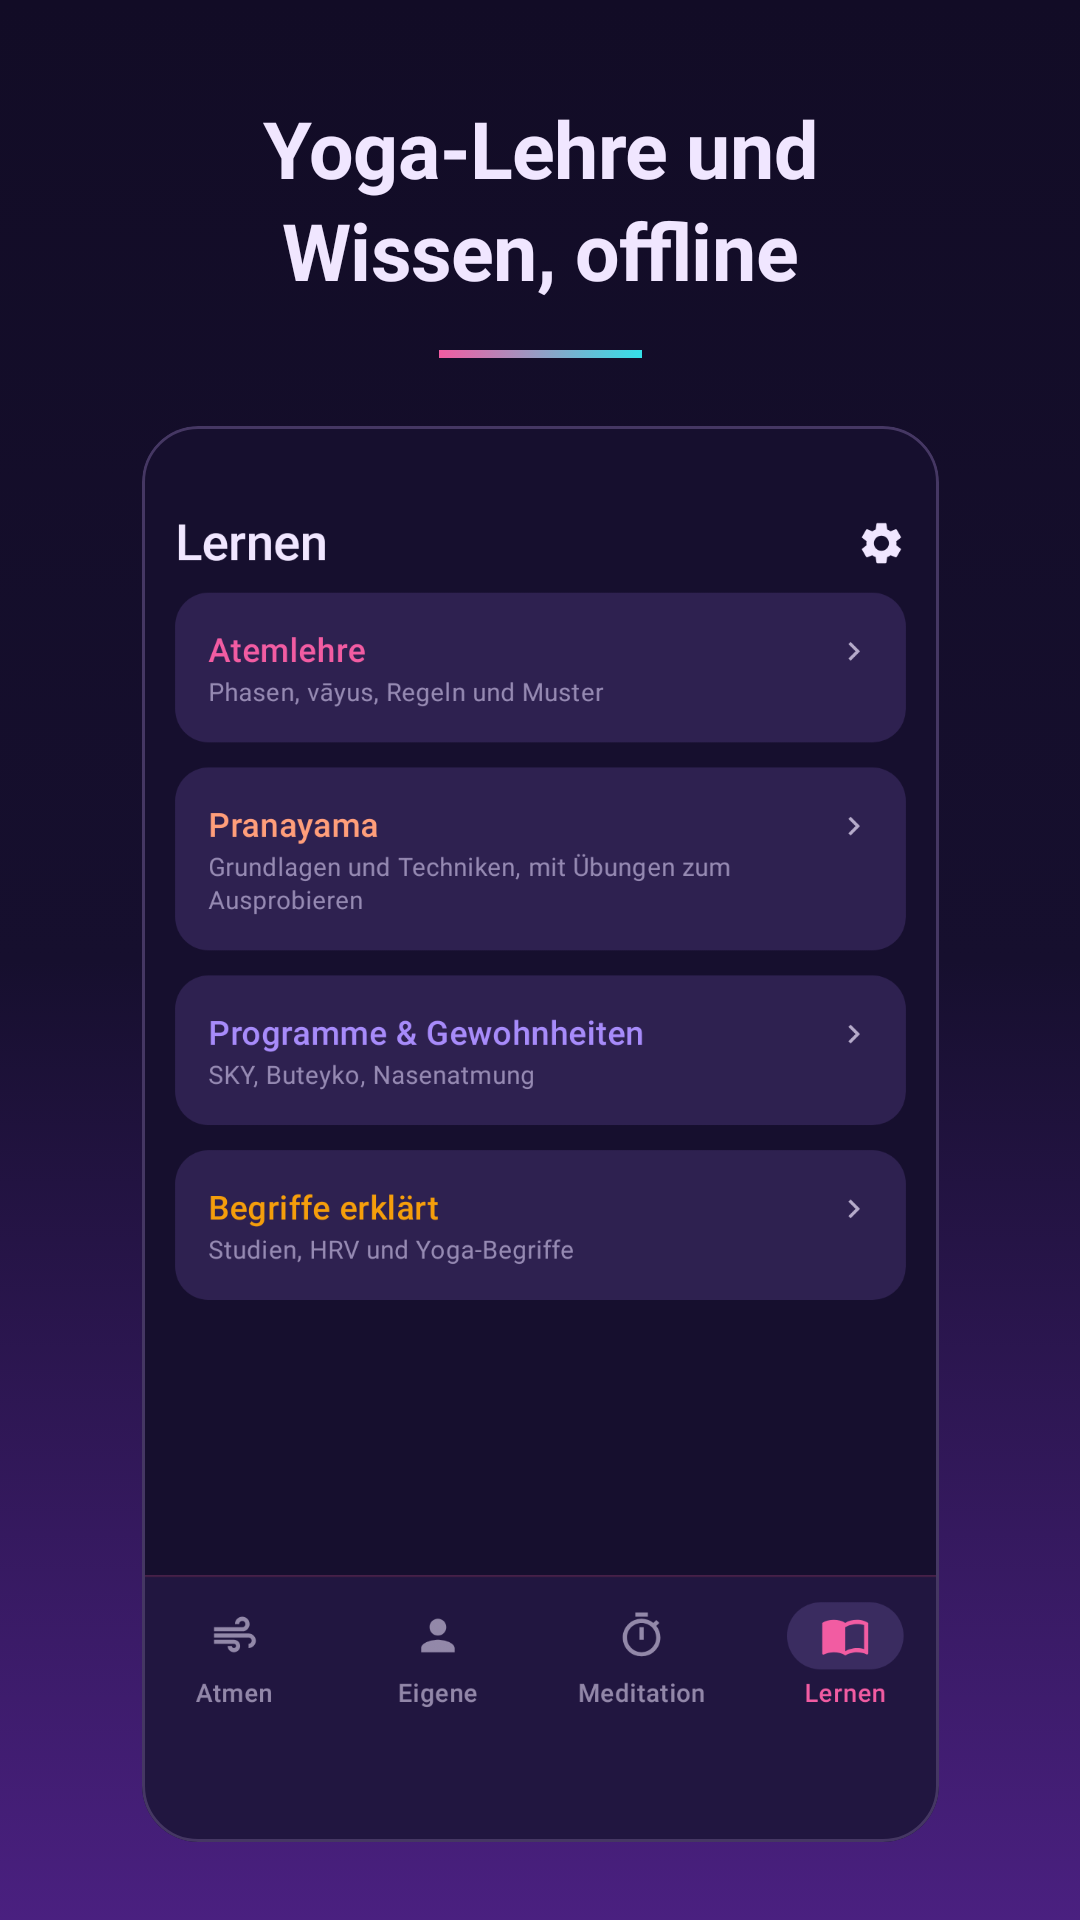
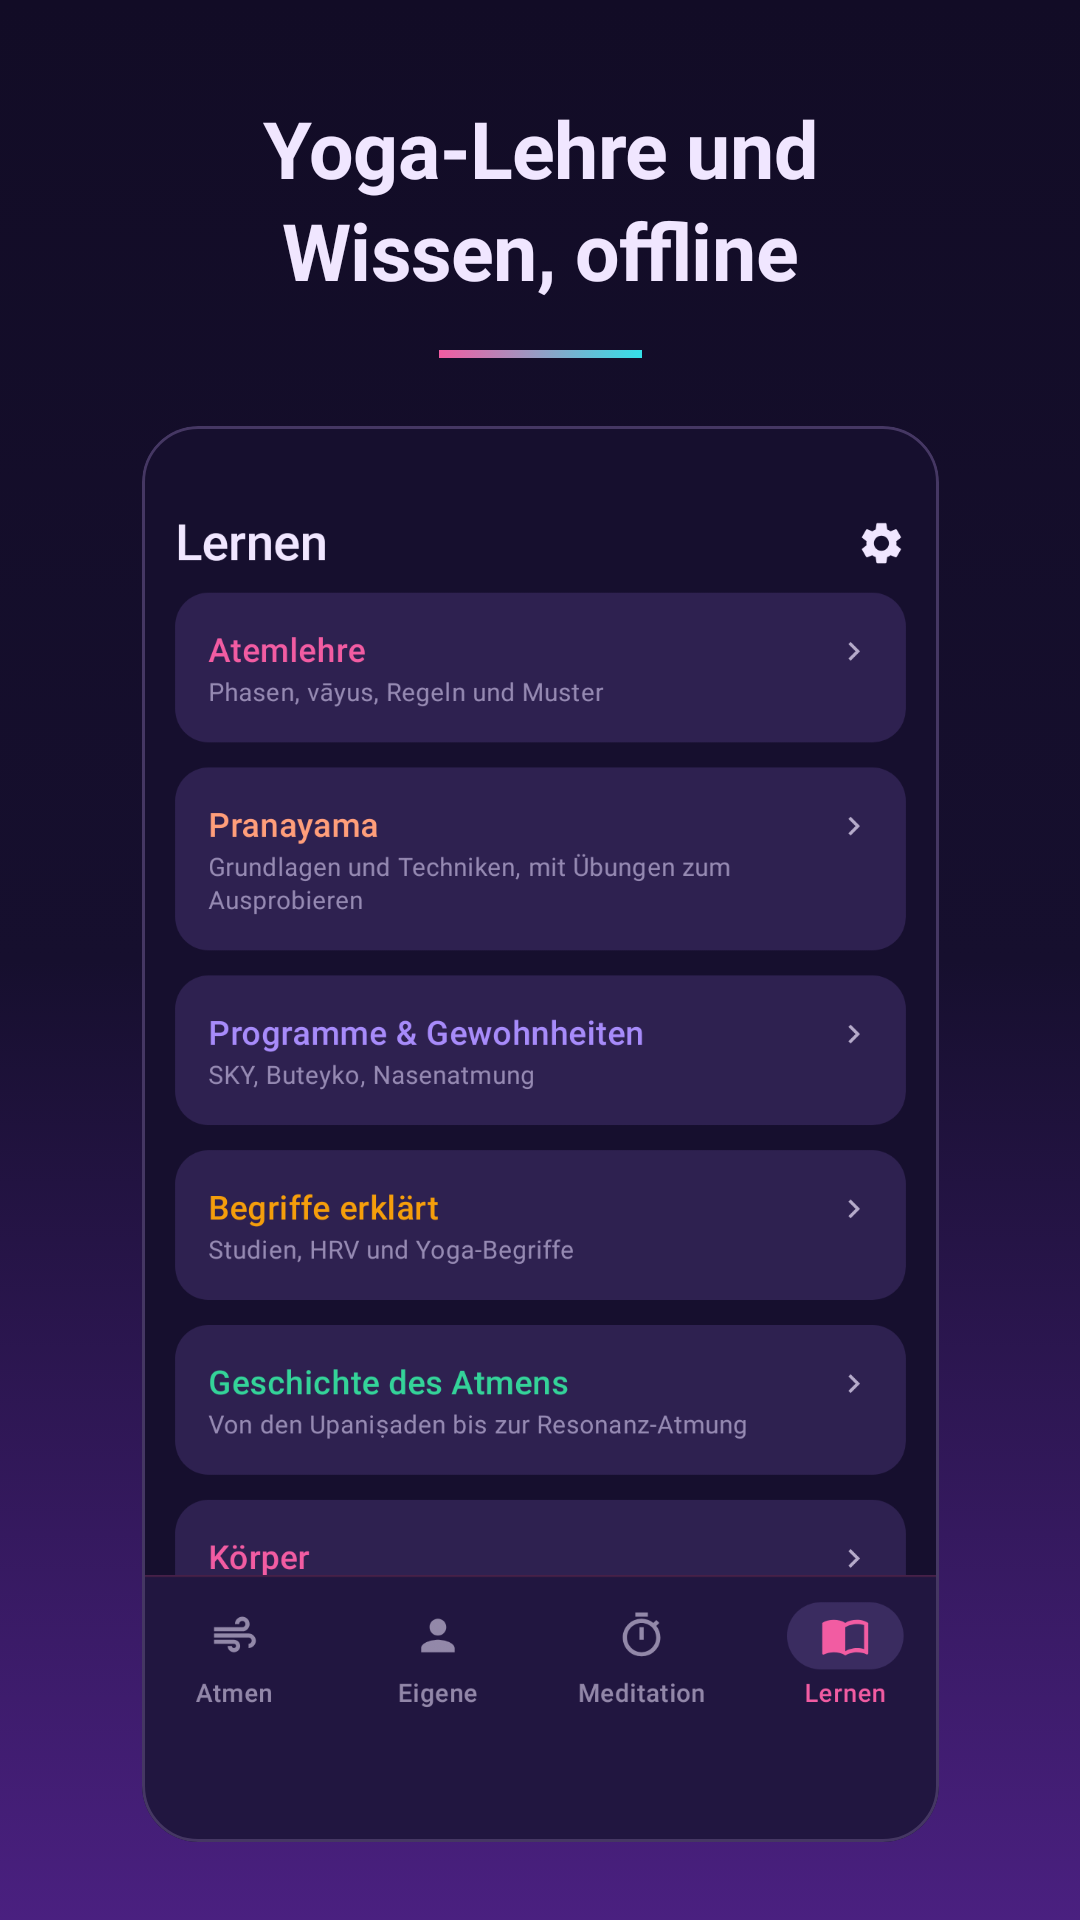
v2.9.0: Befinden danach, lokale Erinnerung, Sicherung in einer Datei, Kapitel Geschichte und Körper
Claude-Session: https://claude.ai/code/session_01H2VGhxbJTSRd9dYHL6wNME

Changed region(s): [[0.1528, 0.6875, 0.8556, 0.8438]]

diff --git a/docs/release-notes/v2.9.0.md b/docs/release-notes/v2.9.0.md
@@ -1,0 +1,15 @@
+Neu in Version 2.9.0 (mit allem aus 2.7 und 2.8, die nicht einzeln veröffentlicht wurden):
+
+- **Befinden danach:** Am Ende einer Übung kannst du mit einem Tipp sagen, wie es dir geht: „ruhiger · wie vorher · unruhiger“, nach aktivierenden Übungen „wacher · wie vorher · müder“. Das Wort steht im Logbuch, nur auf deinem Gerät, und wird nie ausgewertet. Abschalten kannst du die Frage in den Einstellungen.
+- **Erinnerung:** Auf Wunsch erinnert die App zu einer Uhrzeit an gewählten Wochentagen an ein paar Atemzüge – lokal, ohne Netz, ohne Druck.
+- **Sicherung:** Muster, Logbuch samt Befinden, „Tut mir gut“ und Einstellungen in einer Datei; beim Einlesen zeigt eine Vorschau, was dazukommt.
+- **Lernen:** zwei neue Kapitel. „Geschichte des Atmens“ erzählt von den Upaniṣaden über Patañjali und das Haṭha-Yoga bis zur Resonanz-Atmung im Labor, ehrlich datiert. „Körper“ erklärt Atemmechanik, CO₂ als Atemantrieb, Nase, Vagus und Baroreflex, Atem und Gefühl, und wann Fachleute die richtige Adresse sind.
+
+- **Ruhigere Tabs:** Die Suche im Tab „Atmen“ ist ein echtes Suchfeld mit Lupe, der eingetippte Text bleibt stehen, auch wenn du die Tastatur schließt. Alle Abschnittsköpfe sind weiß; Farbe tragen nur noch die Gruppen und die Kartenränder. Die Filter sind kleine Chips, die Anlässe große.
+- **Atmen:** Das Muster des Tages steht hinter der Gruppe „Beruhigen“ und trägt „Neu generieren“ und Speichern in seiner Kopfzeile. Unter einem gewählten Anlass führt „Alle Übungen ›“ zurück zur ganzen Liste. Die Willkommenskarte öffnet die Resonanz-Atmung mit 3 Minuten.
+- **Eigene:** Verlauf, „Tut mir gut“ und „Eigene Kreationen“ haben denselben Kopf. „Zuletzt: … ›“ öffnet die zuletzt geübte Übung. Ohne eigene Kreationen führt „Muster gestalten ›“ in den Editor, auf den Kreationen-Karten öffnet ein Stift das Muster. Die Serie lässt sich in den Einstellungen ausblenden. Der Tab hat ein eigenes Symbol.
+- **Ein Zeichen für „zu mir“:** Der Atemkreis ◉ markiert, was dir guttut, und speichert auch das Muster des Tages; das Lesezeichen ist weg.
+- **Schnellstart:** Ein langer Druck aufs App-Symbol startet die Resonanz-Atmung, die Meditation oder die zuletzt geübte Übung.
+- **Sitzung:** Der Dauerton blendet weich aus, der Kreis springt an den Phasengrenzen nicht mehr.
+- **Eigenes Muster:** Vorschau-Play links und Ton rechts am unteren Rand der Kurvenkarte.
+- Programme heißen „zum Nachlesen“, damit klar ist, dass kein getakteter Ablauf folgt.

diff --git a/README.md b/README.md
@@ -19,7 +19,7 @@ Beschrieben ist der Stand von `main`; die veröffentlichte Version kann Einzelne
 - **Eigene Kreationen:** einen Atemzug frei aus Einatmen, Halten und Ausatmen zusammenstellen, mit Atemkurve, Startpunkten und Vorschau, gesammelt im Tab „Eigene“, zusammen mit den Übungen, die du mit „Tut mir gut“ markiert hast, und dem Verlauf deiner Sitzungen samt Weg zur zuletzt geübten Übung.
 - **Meditation:** Timer mit Zeitring, Gong und optional gesprochener Anleitung; läuft bei ausgeschaltetem Bildschirm weiter. Auf Wunsch geht eine Atemübung nahtlos in die stille Meditation über.
 - **Lernen:** Atemlehre (etwa die fünf vāyus), Pranayama mit Grundlagen und Techniken wie Ujjayi, jeweils mit Übung zum Ausprobieren, Begriffe erklärt, Programme wie Buteyko und Nasenatmung zum Nachlesen sowie die Kapitel „Geschichte des Atmens“ und „Körper“ (was beim Atmen im Körper geschieht und wann Fachleute gefragt sind).
-- **Logbuch und Export:** abgeschlossene Sitzungen (Tage in Folge abschaltbar), gespeicherte Muster als Datei sichern.
+- **Logbuch, Befinden und Sicherung:** abgeschlossene Sitzungen (Tage in Folge abschaltbar), auf Wunsch ein Wort zum Befinden danach, ohne Auswertung; eine lokale Erinnerung; alles (Muster, Logbuch, Einstellungen) als eine Datei sichern und wieder einlesen.
 
 ## Installieren
 
@@ -28,7 +28,7 @@ Atemkraft läuft ab Android 8.0. Bezugsquellen:
 - **Google Play** und **F-Droid:** folgen; die Links stehen hier, sobald die App dort erscheint.
 - **GitHub:** als APK unter [Releases](https://github.com/grenzenloseSchublade/atemkraft/releases/latest).
 
-Alle Wege liefern dieselbe App mit derselben Signatur. Du kannst deshalb die Quelle wechseln, ohne die App zu deinstallieren: Das Update aus der neuen Quelle installiert sich über die vorhandene App, Logbuch, Muster und Einstellungen bleiben. Das ist wichtig, weil es bewusst kein Cloud-Backup gibt; eine Deinstallation löscht diese Daten, außer du hast deine Muster vorher exportiert.
+Alle Wege liefern dieselbe App mit derselben Signatur. Du kannst deshalb die Quelle wechseln, ohne die App zu deinstallieren: Das Update aus der neuen Quelle installiert sich über die vorhandene App, Logbuch, Muster und Einstellungen bleiben. Das ist wichtig, weil es bewusst kein Cloud-Backup gibt; eine Deinstallation löscht diese Daten, außer du hast vorher eine Sicherung als Datei angelegt.
 
 Ohne Store:
 

diff --git a/THIRD_PARTY_LICENSES.md b/THIRD_PARTY_LICENSES.md
@@ -2,7 +2,7 @@
 
 Was in der App steckt, was sie auf Wunsch lädt und unter welchen Bedingungen. Gegenstück in der App: *Einstellungen → Über Atemkraft → Lizenzen*.
 
-- **Stand:** 2026-10-24, gilt für App-Version 2.0.2 bis 2.8.0 (`versionCode` 31 bis 40; die Abhängigkeiten sind dazwischen gleich) und `main`. Seit 1.6.0 sind die Laufzeit-Abhängigkeiten aktualisiert (§ 1); das sherpa-onnx-AAR ist dieselbe Datei wie bisher, kommt aber seit 2026-10-24 von JitPack statt aus `app/libs/` (§ 2).
+- **Stand:** 2026-10-24, gilt für App-Version 2.0.2 bis 2.9.0 (`versionCode` 31 bis 40; die Abhängigkeiten sind dazwischen gleich) und `main`. Seit 1.6.0 sind die Laufzeit-Abhängigkeiten aktualisiert (§ 1); das sherpa-onnx-AAR ist dieselbe Datei wie bisher, kommt aber seit 2026-10-24 von JitPack statt aus `app/libs/` (§ 2).
 - **Belege:** Lizenzangaben aus Maven-POMs, `LICENSE`/`COPYING`-Dateien der Upstream-Repos am genannten Tag oder Commit und den Modellkarten der Stimmen. Die Laufzeit-Abhängigkeiten sind am 2026-10-23 mit `./gradlew :app:dependencies --configuration releaseRuntimeClasspath` am Stand 2.0.2 neu erhoben, ihre Lizenzen aus den POMs und die NOTICE-Texte aus den JARs bzw. den Upstream-Repos am Tag der jeweiligen Version übernommen. Der Inhalt der APK ist mit `unzip -l` an Release-Builds von 2.0.2 und 2.5.0 geprüft (2.5.0 am 2026-10-24, vor und nach dem Wechsel auf JitPack; Unterschied nur die nicht mehr mitgelieferte C- und C++-API, § 2), die gebündelten Bibliotheken über die Build-Skripte von sherpa-onnx v1.13.6 (samt der von dort geladenen Bibliotheken) und Zeichenketten in `libsherpa-onnx-jni.so` und `libsherpa-onnx-c-api.so`.
 - **Keine Rechtsberatung.** Die Einordnungen unten geben Lizenztexte und veröffentlichte Auffassungen wieder.
 

diff --git a/docs/STYLEGUIDE.md b/docs/STYLEGUIDE.md
@@ -1,6 +1,6 @@
 # Atemkraft – Styleguide
 
-Normativer Design-, Text- und Code-Leitfaden für Maintainer und Claude: Jede Regel nennt ihre Prüfung. Stand: v2.8.0 und `main`, 2026-10-24. Sicherheit, Datenschutz, Build und Release regelt [SECURITY.md](SECURITY.md); Commit, Push, Release und Arbeitsweise [PROCESS.md](PROCESS.md); die Kurzfassung für Agenten steht in [CLAUDE.md](../CLAUDE.md). Wie ein Feature genau gebaut ist, steht in [docs/spec/](spec/); warum etwas so entschieden wurde, in [DECISIONS.md](DECISIONS.md).
+Normativer Design-, Text- und Code-Leitfaden für Maintainer und Claude: Jede Regel nennt ihre Prüfung. Stand: v2.9.0 und `main`, 2026-10-24. Sicherheit, Datenschutz, Build und Release regelt [SECURITY.md](SECURITY.md); Commit, Push, Release und Arbeitsweise [PROCESS.md](PROCESS.md); die Kurzfassung für Agenten steht in [CLAUDE.md](../CLAUDE.md). Wie ein Feature genau gebaut ist, steht in [docs/spec/](spec/); warum etwas so entschieden wurde, in [DECISIONS.md](DECISIONS.md).
 
 **Inhalt:** [0 Geltung](#geltung) · [1 Leitplanken](#leitplanken) · [2 Farbe](#farbe) · [3 Typografie](#typografie) · [4 Layout](#layout) (4.5 [Anatomie der Bausteine](#anatomie)) · [5 Komponenten](#komponenten) · [6 Muster](#muster) · [7 Icons](#icons) · [8 Bewegung](#bewegung) · [9 Audio und Haptik](#audio) · [10 Barrierefreiheit](#a11y) · [11 Text und Ton](#text) · [12 Code](#code) · [13 Automatische Prüfung](#automatische-pruefung) · [14 Backlog](#backlog) · [Quellen](#quellen)
 

diff --git a/docs/STORE.md b/docs/STORE.md
@@ -1,6 +1,6 @@
 # Veröffentlichung in Google Play und F-Droid
 
-Stand: 2026-10-24, App-Version 2.8.0 und `main`. Dieses Dokument beschreibt, wie Atemkraft in die Stores kommt: was im Repo vorbereitet sein muss, welche Konten und Formulare nötig sind und in welcher Reihenfolge man vorgeht. Die verbindlichen Regeln (Signatur, Lizenzen, Gesundheitsaussagen) stehen in [SECURITY.md](SECURITY.md), Abschnitte *Build und Signatur*, *Verteilung* und *Gesundheit, Recht und Lizenzen*; die Schritte jedes einzelnen Releases in dessen *Release-Checkliste*. Hier steht der einmalige Weg in die Stores und das, was sich danach je Release ändert.
+Stand: 2026-10-24, App-Version 2.9.0 und `main`. Dieses Dokument beschreibt, wie Atemkraft in die Stores kommt: was im Repo vorbereitet sein muss, welche Konten und Formulare nötig sind und in welcher Reihenfolge man vorgeht. Die verbindlichen Regeln (Signatur, Lizenzen, Gesundheitsaussagen) stehen in [SECURITY.md](SECURITY.md), Abschnitte *Build und Signatur*, *Verteilung* und *Gesundheit, Recht und Lizenzen*; die Schritte jedes einzelnen Releases in dessen *Release-Checkliste*. Hier steht der einmalige Weg in die Stores und das, was sich danach je Release ändert.
 
 Quellen sind die offiziellen Hilfeseiten von Google, F-Droid und IzzyOnDroid (Links im Text, abgerufen am 2026-10-23). Store-Regeln ändern sich; vor jedem Schritt die verlinkte Seite noch einmal lesen. Keine Rechtsberatung.
 

diff --git a/docs/SECURITY.md b/docs/SECURITY.md
@@ -2,7 +2,7 @@
 
 Sicherheits-, Datenschutz-, Lieferketten- und Release-Regeln für Atemkraft (`app.atemkraft`). Zielgruppe: Maintainer und Claude. Gegenstück für Design, Text und Code: [STYLEGUIDE.md](STYLEGUIDE.md).
 
-- **Stand:** 2026-10-24 (v2.8.0 und `main`; statische Sicherheits-Checks seit 2026-10-19 aktiv, `verify-apk` und der Tag-Nachbau `release-verify` seit 2026-10-24).
+- **Stand:** 2026-10-24 (v2.9.0 und `main`; statische Sicherheits-Checks seit 2026-10-19 aktiv, `verify-apk` und der Tag-Nachbau `release-verify` seit 2026-10-24).
 - **Schlüsselwörter:** MUSS / DARF NICHT / SOLL im Sinne von RFC 2119.
 - **Regelformat** (gemeinsam mit STYLEGUIDE): `ID | Stufe | Regel | Warum | Prüfung`. `auto:` nennt Werkzeug und Check (siehe [Automatische Prüfung](#automatische-pruefung)), `manuell:` nennt Review oder Checklisten-Schritt. In der Check-Tabelle stehen die vollen Regel-IDs.
 - **Grundlage:** OWASP MASVS v2.1.0 (L1 + Privacy), Android Security Checklist, Google-Play-Richtlinien, F-Droid Inclusion Policy.

diff --git a/docs/PRIVACY.md b/docs/PRIVACY.md
@@ -2,7 +2,7 @@
 
 Für die Android-App Atemkraft (`app.atemkraft`), gleich über welche Bezugsquelle du sie installierst: GitHub-Releases dieses Repos, Google Play oder F-Droid (siehe [Bezugsquellen](#bezugsquellen)).
 
-- **Stand:** 2026-10-24. Gilt ab Version 2.6.0, geprüft gegen Version 2.8.0 und den Quellcode auf `main` an diesem Tag. Wie sich frühere Versionen unterscheiden, steht im [Anhang](#fruehere-versionen).
+- **Stand:** 2026-10-24. Gilt ab Version 2.6.0, geprüft gegen Version 2.9.0 und den Quellcode auf `main` an diesem Tag. Wie sich frühere Versionen unterscheiden, steht im [Anhang](#fruehere-versionen).
 - **Anbieter:** grenzenloseSchublade, Maintainer von [github.com/grenzenloseSchublade/atemkraft](https://github.com/grenzenloseSchublade/atemkraft). Kontakt siehe [unten](#kontakt).
 
 ## Kurzfassung
